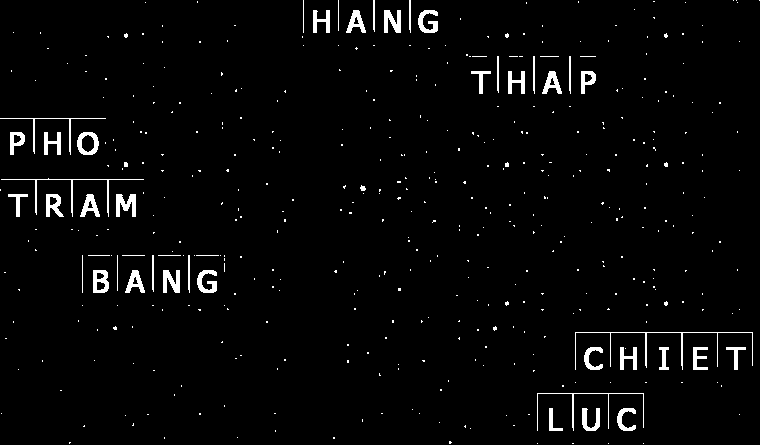
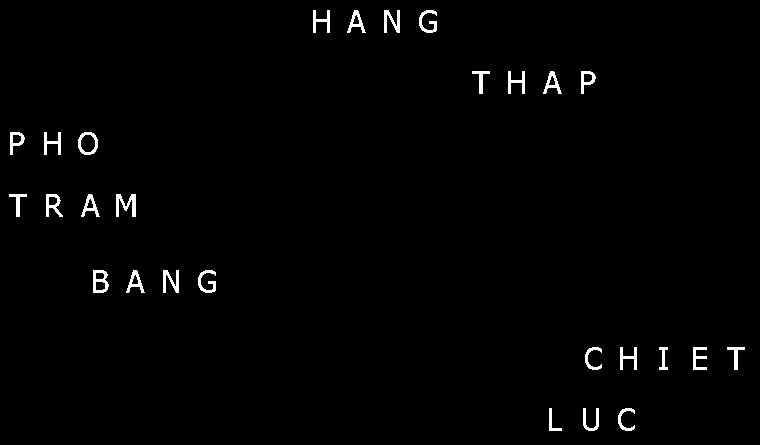
Test Threashold => perfect

diff --git a/image_shape.py b/image_shape.py
@@ -6,35 +6,37 @@ import argparse
 import imutils
 import cv2
 
-image_path='./typing_game_image.png'
+image_path = './typing_game_image.png'
 # load the image, convert it to grayscale, blur it slightly,
 # and threshold it
 image = cv2.imread(image_path)
 gray = cv2.cvtColor(image, cv2.COLOR_BGR2GRAY)
 blurred = cv2.GaussianBlur(gray, (5, 5), 0)
-thresh = cv2.threshold(blurred, 60, 255, cv2.THRESH_BINARY)[1]
 
-cv2.imshow("Image", blurred)
+thresh_value = 150
+thresh = cv2.threshold(blurred, thresh_value, 255, cv2.THRESH_BINARY)[1]
+
+cv2.imshow("Image", thresh)
 cv2.waitKey(0)
 
 # find contours in the thresholded image
 cnts = cv2.findContours(thresh.copy(), cv2.RETR_EXTERNAL,
-	cv2.CHAIN_APPROX_SIMPLE)
+                        cv2.CHAIN_APPROX_SIMPLE)
 cnts = cnts[0] if imutils.is_cv2() else cnts[1]
 
 # loop over the contours
 for c in cnts:
-	# compute the center of the contour
-	M = cv2.moments(c)
-	cX = int(M["m10"] / M["m00"])
-	cY = int(M["m01"] / M["m00"])
+    # compute the center of the contour
+    M = cv2.moments(c)
+    cX = int(M["m10"] / M["m00"])
+    cY = int(M["m01"] / M["m00"])
 
-	# draw the contour and center of the shape on the image
-	cv2.drawContours(image, [c], -1, (0, 255, 0), 2)
-	cv2.circle(image, (cX, cY), 7, (255, 255, 255), -1)
-	cv2.putText(image, "center", (cX - 20, cY - 20),
-		cv2.FONT_HERSHEY_SIMPLEX, 0.5, (255, 255, 255), 2)
+    # draw the contour and center of the shape on the image
+    cv2.drawContours(image, [c], -1, (0, 255, 0), 2)
+    cv2.circle(image, (cX, cY), 7, (255, 255, 255), -1)
+    cv2.putText(image, "center", (cX - 20, cY - 20),
+                cv2.FONT_HERSHEY_SIMPLEX, 0.5, (255, 255, 255), 2)
 
-	# show the image
-	cv2.imshow("Image", image)
-	cv2.waitKey(0)
+    # show the image
+    cv2.imshow("Image", image)
+    cv2.waitKey(0)

diff --git a/test_threshold.py b/test_threshold.py
@@ -1,0 +1,11 @@
+import cv2
+im_gray = cv2.imread('./grayscale_image.png')
+# (thresh, im_bw) = cv2.threshold(im_gray, 128,
+                                # 255, cv2.THRESH_BINARY | cv2.THRESH_OTSU)
+thresh = 210
+im_bw = cv2.threshold(im_gray, thresh, 255, cv2.THRESH_BINARY)[1]
+
+# show the image
+cv2.imshow("Image", im_bw)
+cv2.waitKey(0)
+cv2.imwrite('blackwhite_image.png', im_bw)
